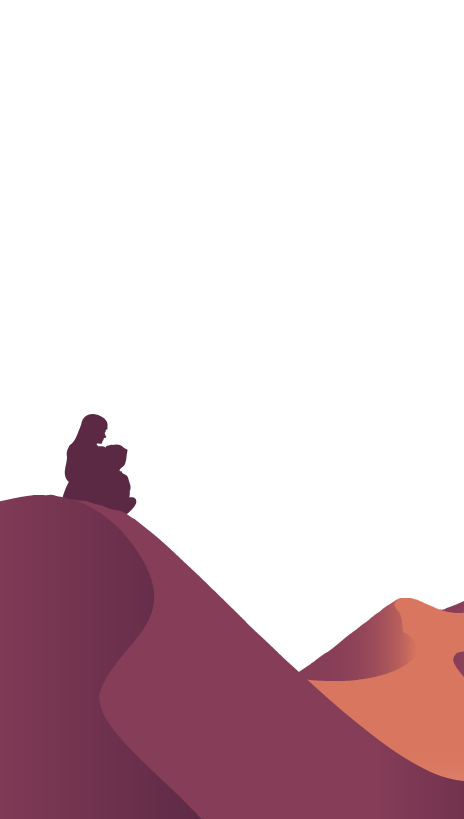
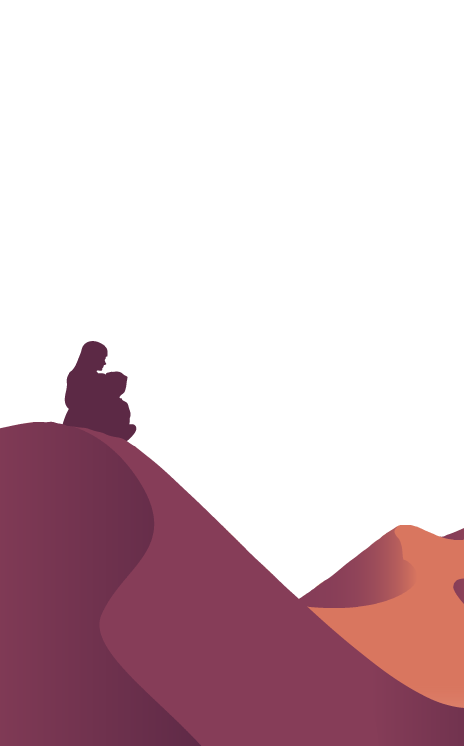
Cropped home page bg img

diff --git a/src/Home.scss b/src/Home.scss
@@ -85,7 +85,7 @@ $breakpoint-cellphone: 600px;
             flex-direction: column;
             justify-content: center;
             padding: 5%;
-            height: 60vh;
+            height: 50vh;
         }
     }
 }
